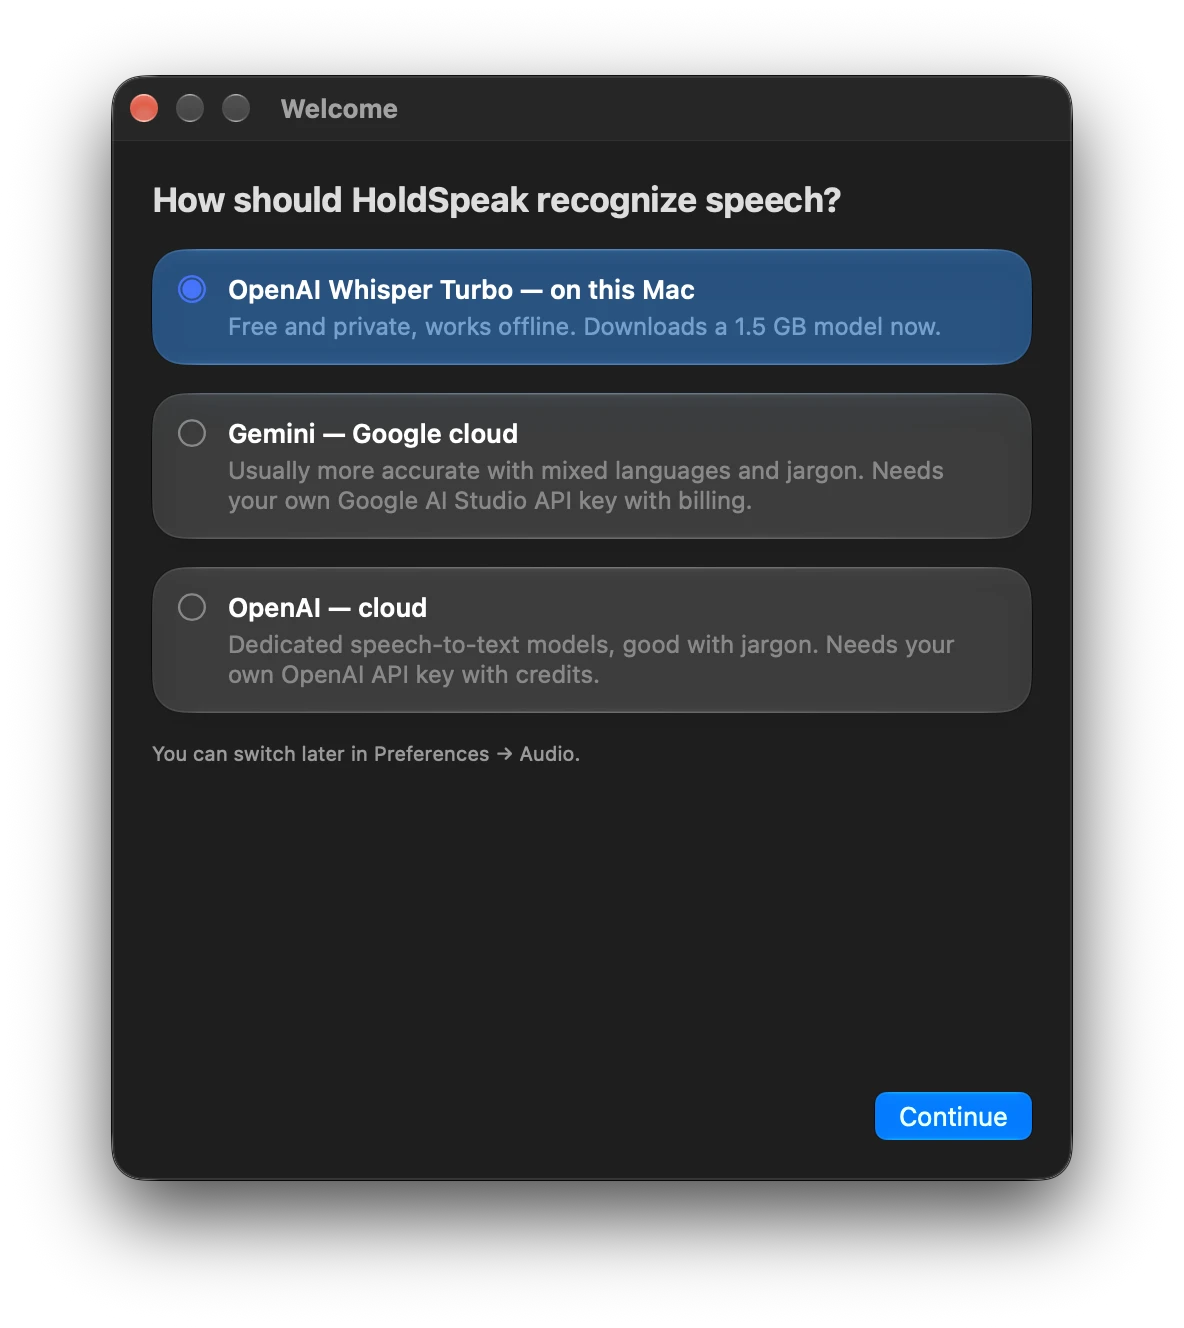
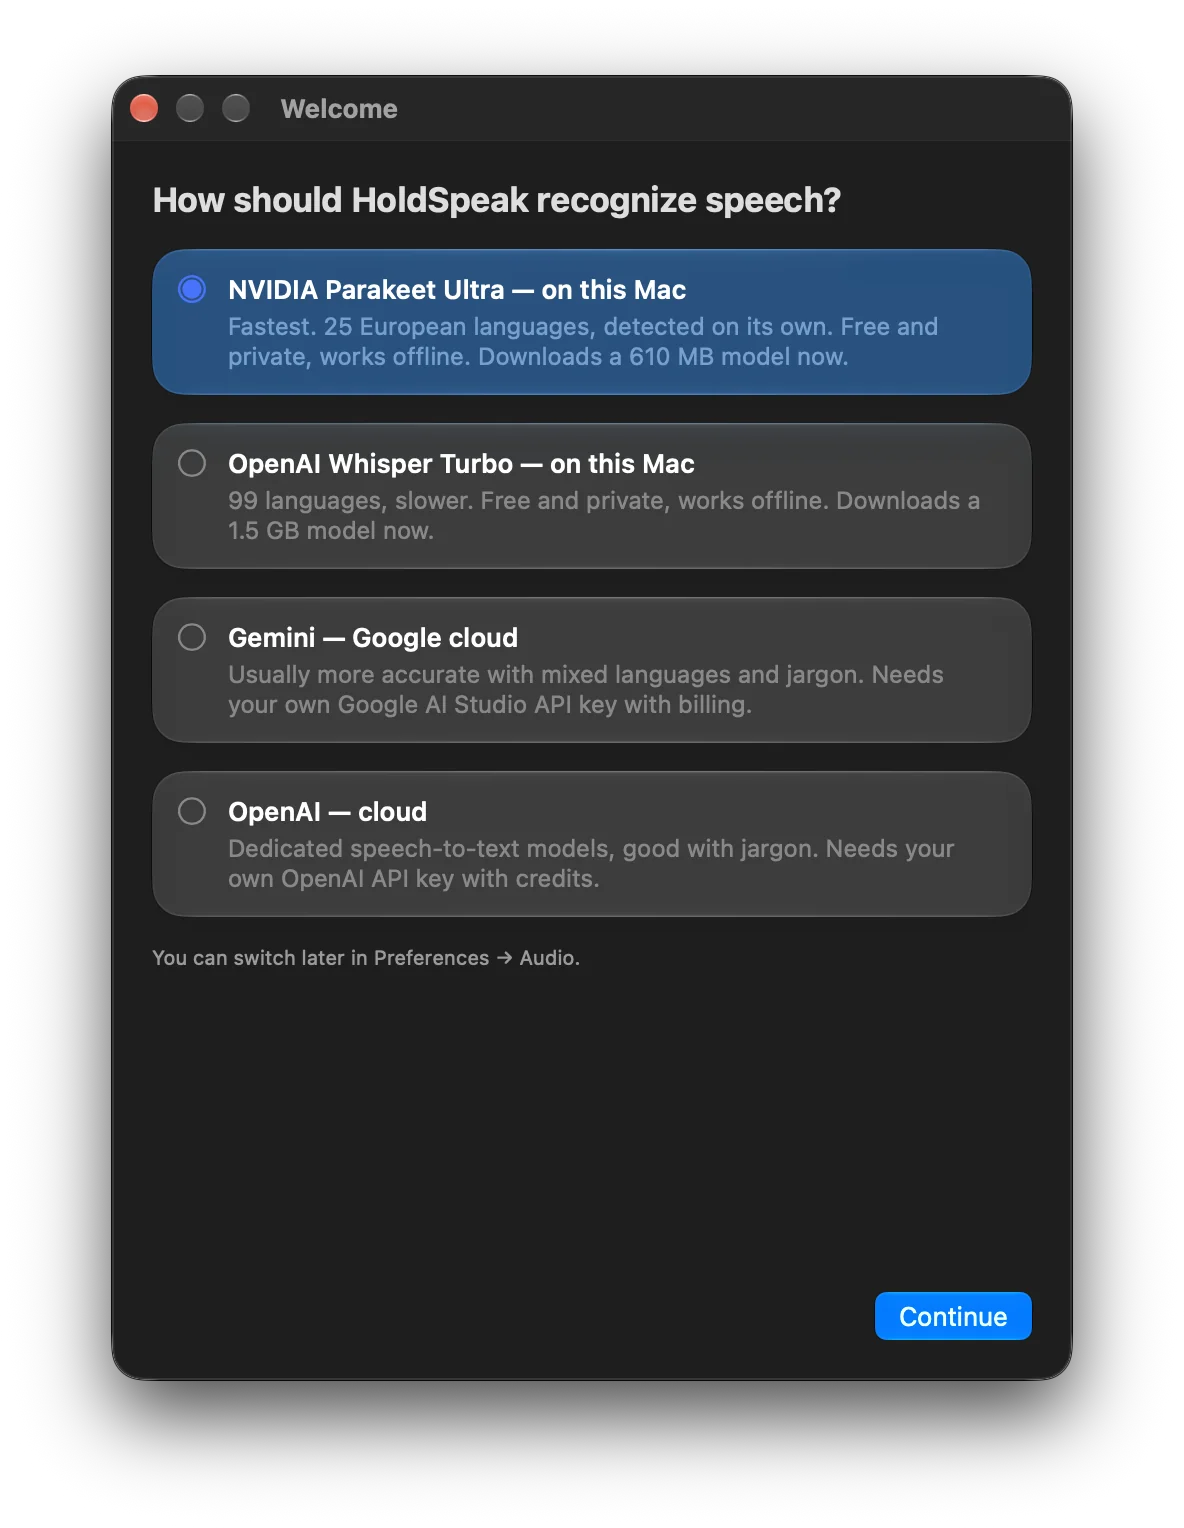
feat(HS-18): onboarding offers NVIDIA Parakeet Ultra first
The engine step now matches the Model dropdown: NVIDIA Parakeet Ultra
(only where ParakeetSupport.isAvailable, selected by default there),
OpenAI Whisper Turbo, Gemini, OpenAI. Names and sizes come from the
model metadata. The permissions step names the local model actually
being downloaded (prefs.localModel). Window 520 -> 620 pt tall so four
cards plus a cloud API key editor fit. README text, alt and screenshot
(?v=6) updated.

Claude-Session: https://claude.ai/code/session_01N6aPXDfHT93GT76n7HGJxU

Changed region(s): [[0.125, 0.1235, 0.875, 0.6483], [0.0938, 0.8027, 0.9062, 0.9262], [0.0938, 0.0309, 0.9062, 0.0926]]

diff --git a/Sources/UI/OnboardingView.swift b/Sources/UI/OnboardingView.swift
@@ -5,7 +5,8 @@ struct OnboardingView: View {
     @ObservedObject private var prefs = PreferencesStore.shared
     @State private var perms = PermissionsManager.shared.current()
     @State private var step: Step
-    @State private var choice: TranscriptionEngineKind = .whisper
+    /// Parakeet first where it runs (macOS 14 on Apple Silicon), like the Model dropdown.
+    @State private var choice: TranscriptionEngineKind = ParakeetSupport.isAvailable ? .parakeet : .whisper
     /// Called when the user confirms an engine (a cloud engine's key is already saved by then).
     var onEngineChosen: (TranscriptionEngineKind) -> Void
     var onDone: () -> Void
@@ -30,7 +31,7 @@ struct OnboardingView: View {
             }
         }
         .padding(20)
-        .frame(width: 480, height: 520)
+        .frame(width: 480, height: 620)
     }
 
     // MARK: - Engine
@@ -39,9 +40,15 @@ struct OnboardingView: View {
         VStack(alignment: .leading, spacing: 14) {
             Text("How should HoldSpeak recognize speech?")
                 .font(.title2).bold()
+            // Best first, in the Model dropdown's order; Parakeet is hidden where it can't run.
+            if ParakeetSupport.isAvailable {
+                engineCard(.parakeet,
+                           title: "\(prefs.parakeetModel.shortLabel) — on this Mac",
+                           detail: "Fastest. 25 European languages, detected on its own. Free and private, works offline. Downloads a \(prefs.parakeetModel.downloadSize) model now.")
+            }
             engineCard(.whisper,
                        title: "\(prefs.modelID.shortLabel) — on this Mac",
-                       detail: "Free and private, works offline. Downloads a \(prefs.modelID.downloadSize) model now.")
+                       detail: "99 languages, slower. Free and private, works offline. Downloads a \(prefs.modelID.downloadSize) model now.")
             engineCard(.gemini,
                        title: "Gemini — Google cloud",
                        detail: "Usually more accurate with mixed languages and jargon. Needs your own Google AI Studio API key with billing.")
@@ -134,7 +141,7 @@ struct OnboardingView: View {
             Spacer(minLength: 0)
             if modelsVM.downloading {
                 HStack(spacing: 10) {
-                    Text("Downloading \(prefs.modelID.shortLabel)…")
+                    Text("Downloading \(prefs.localModel.shortLabel)…")
                         .font(.caption)
                         .foregroundColor(.secondary)
                     ProgressView(value: modelsVM.progress)

diff --git a/README.md b/README.md
@@ -33,7 +33,7 @@ Grab the latest DMG from the [Releases page](https://github.com/timmal/HoldSpeak
 
 Because the app is self-signed, macOS will block the first launch. Open **System Settings → Privacy & Security**, scroll to the message *"HoldSpeak was blocked…"* and click **Open Anyway**. Confirm with Touch ID / password. After that it launches normally from Launchpad / Applications. The app runs as a menu bar extra — look for the radio icon in the right side of your menu bar; it won't appear in the Dock or Cmd-Tab.
 
-On first launch, choose how speech is recognized — **Whisper** (on this Mac, downloads a model), **Gemini** (Google cloud) or **OpenAI** (cloud); the cloud engines ask for your API key — then grant three permissions:
+On first launch, choose how speech is recognized — **NVIDIA Parakeet Ultra** (on this Mac, fastest, 25 European languages, ~610 MB download; macOS 14+ on Apple Silicon), **OpenAI Whisper Turbo** (on this Mac, 99 languages, slower, ~1.5 GB), **Gemini** (Google cloud) or **OpenAI** (cloud); the cloud engines ask for your API key — then grant three permissions:
 
 - **Microphone** — for audio capture
 - **Accessibility** — for the global hotkey and text insertion
@@ -42,7 +42,7 @@ On first launch, choose how speech is recognized — **Whisper** (on this Mac, d
 The onboarding window has Open… and Re-check buttons.
 
 <p align="center">
-  <img src="docs/screenshots/onboarding.webp?v=5" width="480" alt="Onboarding · choose OpenAI Whisper Turbo, Gemini or OpenAI" />
+  <img src="docs/screenshots/onboarding.webp?v=6" width="480" alt="Onboarding · choose NVIDIA Parakeet Ultra, OpenAI Whisper Turbo, Gemini or OpenAI" />
 </p>
 
 ### Updating
